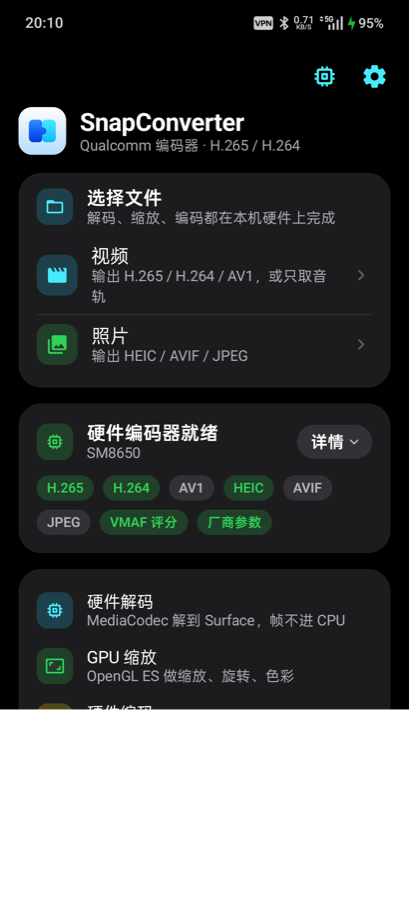
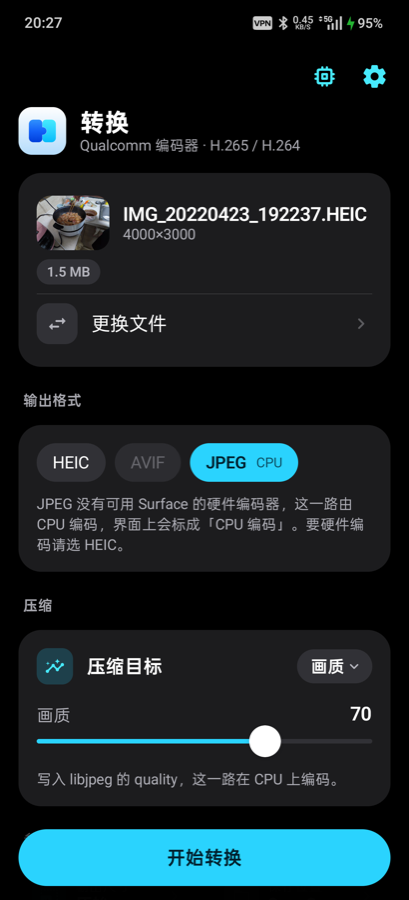
Encode JPEG on the CPU, labelled as CPU, and drop the pipeline card.
JPEG used to be refused outright: no device exposes a public MediaCodec JPEG
encoder that accepts COLOR_FormatSurface, so the format was disabled and the
user was told to pick HEIC. JPEG is now offered as the one declared CPU path.

- ImageEngine.encodeJpegOnCpu decodes at the output size through
  ImageDecoder.setTargetSize (the platform decoder resamples, not
  Bitmap.createScaledBitmap) and writes with Bitmap.compress(JPEG, quality).
- UiState.usesCpuEncoder drives EncoderChip, so a JPEG job is labelled
  "CPU 编码" in yellow everywhere the hardware badge would otherwise appear —
  progress and result. The format chip itself carries a "CPU" tag before the
  user picks it, and the footer says why.
- The Qualcomm V1 gate no longer blocks JPEG or audio extraction; neither job
  touches the video encoder. The audio case was already documented as exempt
  but returned early anyway.
- JpegHardwareUnavailableException is gone; the capability sheet, hints and
  probe notes now say JPEG is CPU-encoded instead of disabled.
- AGENTS.md records this as an exception to constraints 4-6 with the label as
  its condition: JPEG may run on the CPU because the user chose it and can see
  who encoded it. It must never rescue a failed hardware encode.

The idle screen's 硬件解码 / GPU 缩放 / 硬件编码 card is removed as requested.

Verified on a PJD110 (SM8650): HEIC 4000×3000 → JPEG q70, 1.5 MB → 713 KB,
result card shows the CPU badge, VMAF 96.6 / PSNR-Y 49.3 / SSIM 0.993. Light
[…]

diff --git a/app/src/main/java/com/snapconverter/app/ui/screens/HomeScreen.kt b/app/src/main/java/com/snapconverter/app/ui/screens/HomeScreen.kt
@@ -25,7 +25,6 @@ import androidx.compose.foundation.layout.width
 import androidx.compose.foundation.shape.RoundedCornerShape
 import androidx.compose.material.icons.Icons
 import androidx.compose.material.icons.outlined.ErrorOutline
-import androidx.compose.material.icons.rounded.AspectRatio
 import androidx.compose.material.icons.rounded.Bolt
 import androidx.compose.material.icons.rounded.CheckCircle
 import androidx.compose.material.icons.rounded.ContentCut
@@ -193,7 +192,6 @@ fun HomeScreen(
             if (state.stage == ConvertStage.IDLE || state.stage == ConvertStage.LOADING) {
                 ImportCard(loading = state.stage == ConvertStage.LOADING, onPick = pick)
                 CapabilityCard(state) { sheet = HomeSheet.Capabilities }
-                PipelineCard()
             } else {
                 SourceCard(
                     state = state,
@@ -451,34 +449,10 @@ private fun capabilityChips(state: UiState): List<Pair<String, Boolean>> {
         "AV1" to caps.hardwareAv1Encoder,
         "HEIC" to caps.hardwareHeicPath,
         "AVIF" to (caps.hardwareAv1Encoder && Build.VERSION.SDK_INT >= 31),
-        "JPEG" to caps.hardwareJpegEncoder,
+        "JPEG 硬编" to caps.hardwareJpegEncoder,
         "VMAF 评分" to caps.vmafAvailable,
         "厂商参数" to caps.vendorExtensionsApi,
     )
-}
-
-/** The pipeline, stated plainly — it is the product, so it gets a card. */
-@Composable
-private fun PipelineCard() {
-    ContentCard(padding = PaddingValues(horizontal = Ios27Spacing.lg, vertical = Ios27Spacing.md)) {
-        InfoRow(
-            title = "硬件解码",
-            icon = Icons.Rounded.Memory,
-            subtitle = "MediaCodec 解到 Surface，帧不进 CPU",
-        )
-        InfoRow(
-            title = "GPU 缩放",
-            icon = Icons.Rounded.AspectRatio,
-            tone = TileTone.Green,
-            subtitle = "OpenGL ES 做缩放、旋转、色彩",
-        )
-        InfoRow(
-            title = "硬件编码",
-            icon = Icons.Rounded.Bolt,
-            tone = TileTone.Yellow,
-            subtitle = "没有硬件编码器就直接报错，不软编",
-        )
-    }
 }
 
 private fun capabilitySummary(state: UiState): String? {
@@ -779,10 +753,13 @@ private fun ImageFormatChips(state: UiState, vm: JobViewModel, locked: Boolean) 
         selected = state.imageCodec == OutputImageCodec.AVIF,
         enabled = !locked && caps?.hardwareAv1Encoder == true && Build.VERSION.SDK_INT >= 31,
     ) { vm.setImageCodec(OutputImageCodec.AVIF) }
+    // JPEG is always offered, but it is the one CPU-encoded format, so the chip
+    // says so up front instead of the UI claiming hardware later.
     Chip(
         label = "JPEG",
+        detail = if (caps?.hardwareJpegEncoder == true) null else "CPU",
         selected = state.imageCodec == OutputImageCodec.JPEG,
-        enabled = !locked && caps?.hardwareJpegEncoder == true,
+        enabled = !locked,
     ) { vm.setImageCodec(OutputImageCodec.JPEG) }
 }
 
@@ -895,13 +872,7 @@ private fun ProgressCard(state: UiState) {
                     color = palette.label,
                 )
             }
-            if (state.capabilities?.v1Supported == true) {
-                InfoChip(
-                    label = "硬件编码",
-                    tone = TileTone.Brand,
-                    icon = Icons.Rounded.Bolt,
-                )
-            }
+            EncoderChip(state)
         }
         Spacer(Modifier.height(Ios27Spacing.md))
         IosProgressBar(progress = progress.ratio)
@@ -910,6 +881,31 @@ private fun ProgressCard(state: UiState) {
             text = progressDetail(state),
             style = Ios27Type.footnote,
             color = palette.labelSecondary,
+        )
+    }
+}
+
+/**
+ * Who is doing the encoding. JPEG runs on the CPU, so it says "CPU" — the app
+ * never labels a CPU encode as hardware or as Qualcomm.
+ */
+@Composable
+private fun EncoderChip(state: UiState) {
+    when {
+        state.usesCpuEncoder -> InfoChip(
+            label = "CPU 编码",
+            tone = TileTone.Yellow,
+            icon = Icons.Rounded.Memory,
+        )
+        state.audioOnly -> InfoChip(
+            label = "直通复制",
+            tone = TileTone.Neutral,
+            icon = Icons.Rounded.Bolt,
+        )
+        state.capabilities?.v1Supported == true -> InfoChip(
+            label = "硬件编码",
+            tone = TileTone.Brand,
+            icon = Icons.Rounded.Bolt,
         )
     }
 }
@@ -984,6 +980,8 @@ private fun ResultCards(
                     overflow = TextOverflow.Ellipsis,
                 )
             }
+            Spacer(Modifier.width(Ios27Spacing.sm))
+            EncoderChip(state)
         }
         Spacer(Modifier.height(Ios27Spacing.lg))
         Row(verticalAlignment = Alignment.CenterVertically) {
@@ -1087,7 +1085,7 @@ private fun ResultCards(
 }
 
 private fun resultDetail(state: UiState): String = buildList {
-    state.hardwareCodecLabel()?.let { add(it) }
+    add(state.outputCodecLabel())
     state.outputFolder?.takeIf { it.isNotBlank() }?.let { add(it) }
     val video = state.videoInfo
     if (video != null && video.bitrateBps > 0) {
@@ -1095,16 +1093,10 @@ private fun resultDetail(state: UiState): String = buildList {
     }
 }.joinToString(" · ")
 
-private fun UiState.hardwareCodecLabel(): String? {
-    val caps = capabilities ?: return null
-    if (!caps.v1Supported) return null
-    if (audioOnly) return "直通复制"
-    val codec = if (kind == MediaKind.IMAGE) {
-        imageCodecLabel(imageCodec)
-    } else {
-        videoCodecLabel(videoCodec)
-    }
-    return "硬件 " + codec
+private fun UiState.outputCodecLabel(): String = when {
+    audioOnly -> "M4A"
+    kind == MediaKind.IMAGE -> imageCodecLabel(imageCodec)
+    else -> videoCodecLabel(videoCodec)
 }
 
 /* ------------------------------------------------------------------- notices */

diff --git a/engine/src/main/java/com/snapconverter/engine/image/ImageEngine.kt b/engine/src/main/java/com/snapconverter/engine/image/ImageEngine.kt
@@ -10,7 +10,6 @@ import android.view.Surface
 import androidx.heifwriter.AvifWriter
 import androidx.heifwriter.EncoderPreference
 import androidx.heifwriter.HeifWriter
-import com.snapconverter.engine.JpegHardwareUnavailableException
 import com.snapconverter.engine.codec.HardwareCodecSelector
 import com.snapconverter.engine.gpu.EglCore
 import com.snapconverter.engine.gpu.ImageTextureRenderer
@@ -21,6 +20,7 @@ import com.snapconverter.engine.policy.ImageEncodePlan
 import com.snapconverter.engine.media.CaptureTimestamp
 import com.snapconverter.engine.policy.ImageSourceInfo
 import com.snapconverter.engine.policy.OutputImageCodec
+import java.io.FileOutputStream
 
 class ImageEngine(
     private val context: Context,
@@ -59,21 +59,47 @@ class ImageEngine(
         when (plan.codec) {
             OutputImageCodec.HEIC -> encodeHeic(input, outputPfd, plan)
             OutputImageCodec.AVIF -> encodeAvif(input, outputPfd, plan)
-            OutputImageCodec.JPEG -> encodeJpegOrThrow()
+            OutputImageCodec.JPEG -> encodeJpegOnCpu(input, outputPfd, plan)
         }
     }
 
-    private fun encodeJpegOrThrow(): Nothing {
-        val jpeg = selector.findJpegHardwareEncoder()
-            ?: throw JpegHardwareUnavailableException()
-        // A public MediaCodec JPEG encoder, when present, almost never accepts
-        // COLOR_FormatSurface. SnapConverter refuses a CPU Bitmap.compress path.
-        throw JpegHardwareUnavailableException().also {
-            it.initCause(
-                IllegalStateException(
-                    "Enumerated ${jpeg.name} but JPEG Surface encode is not wired; use HEIC.",
-                ),
-            )
+    /**
+     * JPEG is the one declared exception to the hardware-only rule.
+     *
+     * No Android device exposes a public MediaCodec JPEG encoder that accepts
+     * `COLOR_FormatSurface`, so a Surface path does not exist to write. Rather
+     * than refuse the format, JPEG is encoded by the platform's libjpeg through
+     * [Bitmap.compress] and the UI labels the job "CPU", never "hardware" and
+     * never "Qualcomm". Scaling is done by the platform decoder at decode time,
+     * not by `Bitmap.createScaledBitmap`.
+     *
+     * This is not a fallback: it never rescues a failed hardware encode, and
+     * HEIC / AVIF / video still refuse rather than run on the CPU.
+     */
+    private fun encodeJpegOnCpu(
+        input: Uri,
+        outputPfd: ParcelFileDescriptor,
+        plan: ImageEncodePlan,
+    ) {
+        val bitmap = decodeAtSize(input, plan.width, plan.height)
+        try {
+            FileOutputStream(outputPfd.fileDescriptor).use { out ->
+                val ok = bitmap.compress(Bitmap.CompressFormat.JPEG, plan.quality, out)
+                if (!ok) throw IllegalStateException("JPEG encode failed")
+                out.flush()
+            }
+        } finally {
+            if (!bitmap.isRecycled) bitmap.recycle()
+        }
+    }
+
+    /** Decode straight to the output size; the decoder resamples, we do not. */
+    private fun decodeAtSize(uri: Uri, width: Int, height: Int): Bitmap {
+        val source = ImageDecoder.createSource(context.contentResolver, uri)
+        return ImageDecoder.decodeBitmap(source) { decoder, _, _ ->
+            decoder.allocator = ImageDecoder.ALLOCATOR_SOFTWARE
+            decoder.isMutableRequired = false
+            if (width > 0 && height > 0) decoder.setTargetSize(width, height)
         }
     }
 

diff --git a/app/src/main/java/com/snapconverter/app/ui/JobViewModel.kt b/app/src/main/java/com/snapconverter/app/ui/JobViewModel.kt
@@ -161,6 +161,14 @@ data class UiState(
     /** True when the user has actually narrowed the trim window. */
     val trimActive: Boolean
         get() = trimStartSec > 0 || (durationSec > 0 && trimEndSec in 1 until durationSec)
+
+    /**
+     * True for the one job that is encoded by the CPU: JPEG. No device exposes
+     * a Surface-capable hardware JPEG encoder, so the format is offered with a
+     * "CPU" label instead of being refused. Everything else is hardware-only.
+     */
+    val usesCpuEncoder: Boolean
+        get() = kind == MediaKind.IMAGE && imageCodec == OutputImageCodec.JPEG
 }
 
 class JobViewModel(application: Application) : AndroidViewModel(application) {
@@ -248,11 +256,7 @@ class JobViewModel(application: Application) : AndroidViewModel(application) {
                         captureTimeMs = identity.captureTimeMs ?: video?.captureTimeMs ?: image?.captureTimeMs,
                         videoInfo = video,
                         imageInfo = image,
-                        imageCodec = if (it.capabilities?.hardwareJpegEncoder == true) {
-                            it.imageCodec
-                        } else {
-                            OutputImageCodec.HEIC
-                        },
+                        imageCodec = it.imageCodec,
                     )
                 }
                 if (autostart) start()
@@ -514,16 +518,13 @@ class JobViewModel(application: Application) : AndroidViewModel(application) {
         val input = snapshot.input ?: return
         val kind = snapshot.kind ?: return
         val caps = snapshot.capabilities
-        if (caps?.v1Supported != true) {
+        // Two jobs never touch the video encoder, so the Qualcomm V1 gate does
+        // not apply to them: audio extraction is a passthrough remux, and JPEG
+        // is the declared CPU path (labelled as CPU in the UI).
+        if (caps?.v1Supported != true && !snapshot.usesCpuEncoder && !snapshot.audioOnly) {
             _state.update { it.copy(error = "这台设备没有可用的高通硬件编码器。") }
             return
         }
-        if (kind == MediaKind.IMAGE && snapshot.imageCodec == OutputImageCodec.JPEG && caps.hardwareJpegEncoder.not()) {
-            _state.update { it.copy(error = "没有公开的 JPEG 硬件编码器，请选择 HEIC。") }
-            return
-        }
-        // Audio-only extraction is pure passthrough (no encoder involved), so
-        // it stays available regardless of the Qualcomm V1 gate.
         if (kind == MediaKind.VIDEO && snapshot.audioOnly) {
             if (snapshot.videoInfo?.audioMime == null) {
                 _state.update { it.copy(error = "此视频没有音轨，无法提取音频。") }

diff --git a/app/src/main/java/com/snapconverter/app/ui/screens/Hints.kt b/app/src/main/java/com/snapconverter/app/ui/screens/Hints.kt
@@ -91,7 +91,7 @@ internal fun qualityModeHint(state: UiState): String {
         return when (state.imageCodec) {
             OutputImageCodec.HEIC -> "写入 HEIC 的 quality，走硬件 HEVC still 编码。"
             OutputImageCodec.AVIF -> "写入 AVIF 的 quality，走硬件 AV1 单帧编码。"
-            OutputImageCodec.JPEG -> "写入硬件 JPEG 编码器的 quality。"
+            OutputImageCodec.JPEG -> "写入 libjpeg 的 quality，这一路在 CPU 上编码。"
         }
     }
     val encoder = selectedVideoEncoder(state) ?: return "正在读取编码器能力…"
@@ -154,8 +154,11 @@ internal fun formatHint(state: UiState): String? {
         return when {
             state.imageCodec == OutputImageCodec.AVIF ->
                 "AVIF 走硬件 AV1 单帧编码，体积通常比 HEIC 更小。"
-            !caps.hardwareJpegEncoder ->
-                "本机未枚举到硬件 JPEG 编码器，为避免 CPU 软压缩已禁用 JPEG。"
+            state.imageCodec == OutputImageCodec.JPEG ->
+                "JPEG 没有可用 Surface 的硬件编码器，这一路由 CPU 编码，" +
+                    "界面上会标成「CPU 编码」。要硬件编码请选 HEIC。"
+            state.imageCodec == OutputImageCodec.HEIC ->
+                "HEIC 走硬件 HEVC 单帧编码，同画质体积约为 JPEG 的一半。"
             else -> null
         }
     }

diff --git a/app/src/main/java/com/snapconverter/app/ui/screens/CapabilityScreen.kt b/app/src/main/java/com/snapconverter/app/ui/screens/CapabilityScreen.kt
@@ -66,7 +66,9 @@ fun CapabilityScreen(
 
             InsetGroup(
                 header = "运行时枚举的能力",
-                footer = "JPEG 必须有公开的硬件编码器才启用，否则宁可拒绝也不做 CPU 软压缩。",
+                footer = "视频、HEIC、AVIF 只走硬件，缺硬件就报错。" +
+                    "JPEG 是唯一的例外：没有可用 Surface 的硬件 JPEG 编码器，" +
+                    "这一路由 CPU 编码，界面上标成「CPU 编码」。",
             ) {
                 capabilityRows(report).forEach { (label, ok) ->
                     row {

diff --git a/engine/src/main/java/com/snapconverter/engine/HardwareOnlyException.kt b/engine/src/main/java/com/snapconverter/engine/HardwareOnlyException.kt
@@ -20,12 +20,6 @@ class HardwareEncoderRequiredException(mime: String) :
 class HardwareDecoderRequiredException(mime: String) :
     HardwareOnlyException("No hardware decoder exposed for $mime on this device.")
 
-class JpegHardwareUnavailableException :
-    HardwareOnlyException(
-        "This device does not expose a hardware JPEG encoder to third-party apps. " +
-            "Choose HEIC, or do not encode JPEG.",
-    )
-
 class SoftwareCodecRejectedException(codecName: String) :
     HardwareOnlyException("Rejected software / AOSP codec: $codecName")
 

diff --git a/engine/src/main/java/com/snapconverter/engine/device/DeviceCapabilityProbe.kt b/engine/src/main/java/com/snapconverter/engine/device/DeviceCapabilityProbe.kt
@@ -36,7 +36,7 @@ class DeviceCapabilityProbe(
                 add("No Qualcomm video encoder enumerated. V1 will refuse to encode.")
             }
             if (jpeg == null) {
-                add("No public hardware JPEG encoder. JPEG output is disabled; use HEIC.")
+                add("No public hardware JPEG encoder. JPEG output runs on the CPU and is labelled CPU.")
             }
             if (Build.VERSION.SDK_INT < 31) {
                 add("API ${Build.VERSION.SDK_INT}: vendor extension probe requires API 31+.")

diff --git a/AGENTS.md b/AGENTS.md
@@ -32,9 +32,9 @@ These are product rules, not style preferences. A change that violates them is i
 1. **Do not make FFmpeg the core pipeline.** No JNI `libavcodec` / `libx264` / `libx265` / `libvpx` encode path. FFmpeg must not be added as a Gradle dependency.
 2. **Do not run software codecs.** Reject `c2.android.*`, `OMX.google.*`, `isSoftwareOnly() == true`. Never call `MediaCodec.createEncoderByType()` and assume the result is hardware.
 3. **Do not put decoded frames on the CPU as the main path.** No `Bitmap` / `ByteArray` / `YUV` round-trip per video frame. The path is decoder Surface → GL texture → encoder Surface.
-4. **Do not use `Bitmap.compress()` as the image encode path.**
-5. **Do not use `Bitmap.createScaledBitmap()` as the image resize path.**
-6. **Do not silently fall back to CPU encode.** If the required hardware encoder is missing, fail and tell the user. JPEG without an exposed hardware encoder must refuse, not encode in software.
+4. **Do not use `Bitmap.compress()` as the image encode path** — with one declared exception: **JPEG**. No Android device exposes a public MediaCodec JPEG encoder that accepts `COLOR_FormatSurface`, so `ImageEngine.encodeJpegOnCpu` encodes JPEG with libjpeg through `Bitmap.compress`, and the UI labels that job **“CPU 编码”**, never “硬件” and never “Qualcomm” (`UiState.usesCpuEncoder` → `EncoderChip`). HEIC, AVIF and all video stay hardware-only.
+5. **Do not use `Bitmap.createScaledBitmap()` as the image resize path.** The JPEG path resamples in the platform decoder (`ImageDecoder.setTargetSize`); everything else resamples in GLES.
+6. **Do not silently fall back to CPU encode.** If the required hardware encoder is missing, fail and tell the user. The JPEG path in rule 4 is a *declared* CPU path the user chooses and sees labelled — it must never be used to rescue a failed hardware encode.
 7. **Do not hard-code a SoC marketing name as capability.** Enumerate `MediaCodecList` at runtime. Capability-driven, not “Snapdragon 8 Gen 3 therefore AV1 encode”.
 8. **Do not put `c2.qti.hevc.encoder` string literals in UI or policy code.** Codec names live in `HardwareCodecSelector` / vendor policy. Business code asks for “hardware HEVC encoder, Qualcomm preferred”.
 9. **V1 encode is Qualcomm-only.** Other vendors get a clear “unsupported device” error until a `MediaTekCodecPolicy` / `ExynosCodecPolicy` exists. Decoder may accept any hardware decoder, but still reject software.
@@ -53,7 +53,7 @@ These are product rules, not style preferences. A change that violates them is i
 | Decode / encode | `MediaCodec.createByCodecName(...)` after enumeration |
 | GPU | EGL + OpenGL ES 3.x, `GL_OES_EGL_image_external` |
 | Mux | `MediaMuxer` (MP4) |
-| Photos | `androidx.heifwriter.HeifWriter` with hardware-only preference; JPEG only if a hardware JPEG encoder is enumerable |
+| Photos | `androidx.heifwriter.HeifWriter` / `AvifWriter` with hardware-only preference; JPEG via libjpeg on the CPU, labelled as CPU |
 | Snapdragon extras | Qualcomm vendor keys (`vendor.qti-ext-*`), probed at runtime |
 | Media3 Transformer | Optional research / future helper. Not the V1 core path. |
 | Tests | JVM unit tests for pure policy/name logic; instrumented tests later for MediaCodec |
@@ -115,10 +115,19 @@ ImageDecoder
   → OpenGL ES texture
   → Adreno resize / crop / rotate
   → HEIC via HeifWriter SURFACE + hardware HEVC still encoder
-     or JPEG via an enumerated hardware JPEG encoder
+     or AVIF via AvifWriter SURFACE + hardware AV1 still encoder
 ```
 
-If JPEG hardware is not exposed as a third-party `MediaCodec`, the UI must disable JPEG and say so. No silent `Bitmap.CompressFormat.JPEG`.
+JPEG does not use that pipeline, because no device exposes a Surface-capable
+hardware JPEG encoder to third-party apps:
+
+```text
+ImageDecoder (setTargetSize = output size)
+  → Bitmap.compress(JPEG, quality)   ← CPU, labelled "CPU 编码" in the UI
+```
+
+That label is the condition for the exception. JPEG may be encoded on the CPU
+because the user picked JPEG and can see who encoded it; nothing else may.
 
 ### Encoder selection (required)
 
@@ -170,7 +179,7 @@ videoBitrate ≈ (targetFileSizeBits - estimatedAudioBits - containerOverhead) /
 - Video in: MP4 / MOV via `MediaExtractor`
 - Video out: H.264 / H.265 MP4
 - Image in: JPEG / PNG / WebP / HEIC / AVIF (decode requires API 31+)
-- Image out: HEIC (hardware HEVC still), AVIF (hardware AV1 still, capability-gated), JPEG only if HW encoder is public
+- Image out: HEIC (hardware HEVC still), AVIF (hardware AV1 still, capability-gated), JPEG (CPU path, labelled “CPU 编码”)
 - Image export size: presets or explicit custom W×H (aspect lock in UI; GPU resample)
 - TIFF is explicitly not offered: no Android hardware encoder exists and the framework cannot decode TIFF; a TIFF path would be a pure-CPU encode, violating the core constraint
 - Resolution: original / 2160p / 1440p / 1080p / 720p
